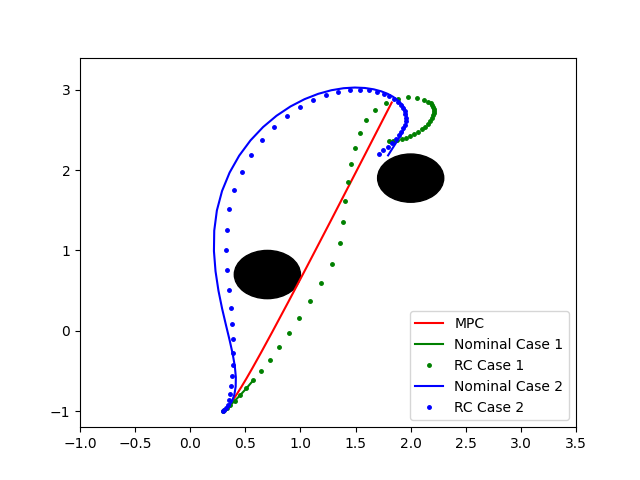
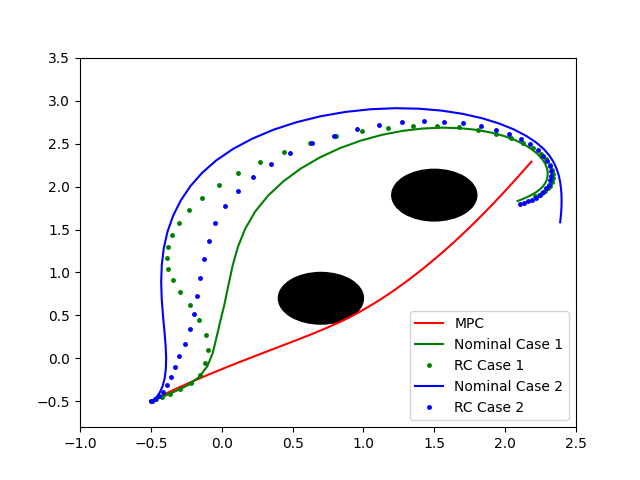
getting the new case to work

diff --git a/bicycle_2d/mpc_cbf_sqp.py b/bicycle_2d/mpc_cbf_sqp.py
@@ -17,26 +17,32 @@ tf = 3#40
 # N = int( tf/dt_inner )
 # N = 100#100
 # tf =  int( N * dt_inner ) #20
-outer_loop = 4#0000000 #4
+outer_loop = 2#0000000 #4
 num_gd_iterations = 1#1
 dt_outer = 0.01
 
-H = 20#20#100
-lr_alpha = 0.07#0.05
-# lr_alpha = 0.1#0.05
+H = 30#20#100
+lr_alpha = 0.05#0.05
+# lr_alpha = 0.1#0.051111111111111111111111111111111111111111111111111111111111111111111
 
-plot_x_lim = (-1.0,3.5)  
-# plot_y_lim = (-0.8,3) 
-plot_y_lim = (-1.2,3.4)#(-2.6,3)
+# plot_x_lim = (-1.0,3.5)  
+# plot_y_lim = (-1.2,3.4)#(-2.6,3)
+plot_x_lim = (-1.0,2.5)  
+plot_y_lim = (-0.8,3.5) 
 
 # starting point
 # X_init = np.array([-0.5,-0.5,np.pi/2])
-d_obs = 0.3
-X_init = np.array([0.3,-1.0, np.pi/4, 0.1 ]) #-0.3,-0.5
-goalX = np.array([1.7,2.5]).reshape(-1,1) #2.5,2.0
+# d_obs = 0.3
+# X_init = np.array([0.3,-1.0, np.pi/4, 0.1 ]) #-0.3,-0.5
+# goalX = np.array([1.7,2.5]).reshape(-1,1) #2.5,2.0
 # obs1X = [0.7, 0.7]
+# obs1X = [0.7, 0.7]
+# obs2X = [2.0, 1.9]
+X_init = np.array([-0.5,-0.5, np.pi/6, 0.1])
+d_obs = 0.3
+goalX = np.array([2.0,2.0])
 obs1X = [0.7, 0.7]
-obs2X = [2.0, 1.9]
+obs2X = [1.5, 1.9]
 
 # X_init = np.array([-0.5,-2.5, 0, 0.1, 0.1, 0, 0.1 ])
 # goalX = np.array([0.9, 0.9]).reshape(-1,1)
@@ -95,7 +101,7 @@ def compute_reward(robot, obs1, obs2, params, dt_outer):
         # make  control matrices
         # control_ref = torch.tensor([0,0], dtype=torch.float).reshape(-1,1)
         control_ref = bicycle2D_nominal_input_jit( states[i], robot.goal_torch )
-        A, b = traced_bicycle2D_qp_constraints_jit( states[i], robot.goal_torch, obs1.X_torch, obs2.X_torch, params[0], params[1], params[2] )
+        A, b = traced_bicycle2D_qp_constraints_jit( states[i], robot.goal_torch, obs1.X_torch, obs2.X_torch, params[0], params[1], params[2], params[3], params[4] )
         # print(f"A:{A}, b:{b}, u_ref:{control_ref}")
         control, deltas = cbf_controller_layer( control_ref, A, b ) #if ( (torch.abs(control[0,0]) > 11) or (torch.abs(control[1,0])>11) ): # print("wrong input: issue with solver")
         
@@ -104,7 +110,7 @@ def compute_reward(robot, obs1, obs2, params, dt_outer):
             # plt.ioff()
             # plt.show()
             # plt.ion()
-            A, b = bicycle2D_qp_constraints_jit( states[i], robot.goal_torch, obs1.X_torch, obs2.X_torch, params[0], params[1], params[2])
+            A, b = bicycle2D_qp_constraints_jit( states[i], robot.goal_torch, obs1.X_torch, obs2.X_torch, params[0], params[1], params[2], params[3], params[4])
             
             return reward, improve_constraints, maintain_constraints, True
         
@@ -203,7 +209,7 @@ def constrained_update( objective, maintain_constraints, improve_constraints, pa
 
 
 
-def simulate_scenario( movie_name = 'test.mp4', adapt = True, enforce_input_constraints = False, params = [1.0, 0.8, 0.8], plot_x_lim = (-5,5), plot_y_lim = (-5,5), offline = False, offline_iterations = 20, alpha1 = 0.8, alpha2 = 0.8 ):
+def simulate_scenario( movie_name = 'test.mp4', adapt = True, enforce_input_constraints = False, params = [1.0, 0.8, 0.8, 0.8, 0.8], plot_x_lim = (-5,5), plot_y_lim = (-5,5), offline = False, offline_iterations = 20, alpha1 = 0.8, alpha2 = 0.8 ):
 
     t = 0
     
@@ -248,7 +254,7 @@ def simulate_scenario( movie_name = 'test.mp4', adapt = True, enforce_input_cons
                 # get controller
                 # control_ref = torch.tensor([0,0], dtype=torch.float).reshape(-1,1)
                 control_ref = traced_bicycle2D_nominal_input_jit( robot.X_torch, robot.goal_torch )
-                A, b = traced_bicycle2D_qp_constraints_jit( robot.X_torch, robot.goal_torch, obs1.X_torch, obs2.X_torch, torch.tensor(params[0], dtype=torch.float), torch.tensor(params[1], dtype=torch.float), torch.tensor(params[2], dtype=torch.float) )
+                A, b = traced_bicycle2D_qp_constraints_jit( robot.X_torch, robot.goal_torch, obs1.X_torch, obs2.X_torch, torch.tensor(params[0], dtype=torch.float), torch.tensor(params[1], dtype=torch.float), torch.tensor(params[2], dtype=torch.float), torch.tensor(params[3], dtype=torch.float), torch.tensor(params[4], dtype=torch.float) )
                 # print(f"A:{A}, b:{b}, ref:{control_ref}")
                 control, deltas = cbf_controller_layer( control_ref, A, b, solver_args=solver_args )
                 if np.any( deltas[1:].detach().numpy() > 0.3 ):
@@ -269,7 +275,7 @@ def simulate_scenario( movie_name = 'test.mp4', adapt = True, enforce_input_cons
                     robot.X_nominal_torch = torch.tensor(robot.X_nominal, dtype=torch.float)
                     # control_ref = torch.tensor([0,0], dtype=torch.float).reshape(-1,1)
                     control_ref = bicycle2D_nominal_input_jit( robot.X_nominal_torch, robot.goal_torch )
-                    A, b = traced_bicycle2D_qp_constraints_jit( robot.X_nominal_torch, robot.goal_torch, obs1.X_torch, obs2.X_torch, torch.tensor(params_copy[0], dtype=torch.float), torch.tensor(params_copy[1], dtype=torch.float), torch.tensor(params_copy[2], dtype=torch.float) )
+                    A, b = traced_bicycle2D_qp_constraints_jit( robot.X_nominal_torch, robot.goal_torch, obs1.X_torch, obs2.X_torch, torch.tensor(params_copy[0], dtype=torch.float), torch.tensor(params_copy[1], dtype=torch.float), torch.tensor(params_copy[2], dtype=torch.float), torch.tensor(params_copy[3], dtype=torch.float), torch.tensor(params_copy[4], dtype=torch.float) )
                     control, deltas = cbf_controller_layer( control_ref, A, b )  
                     if np.any( deltas[1:].detach().numpy() > 0.3 ):
                         nominal_failed = True
@@ -313,6 +319,8 @@ def simulate_scenario( movie_name = 'test.mp4', adapt = True, enforce_input_cons
                             params[0] = np.clip( params[0] + lr_rate * grads[0], 0.0, None ).item()
                             params[1] = np.clip( params[1] + lr_rate * grads[1], 0.0, None ).item()
                             params[2] = np.clip( params[2] + lr_rate * grads[2], 0.0, None ).item()
+                            params[3] = np.clip( params[3] + lr_rate * grads[3], 0.0, None ).item()
+                            params[4] = np.clip( params[4] + lr_rate * grads[4], 0.0, None ).item()
                             # print(f"grads: {grads.T}, params: {params}, lr_rate:{lr_rate}, add1:{lr_rate * grads[0]}, add2:{lr_rate * grads[1]}, add3:{lr_rate * grads[0]}")
                             loop_number = loop_number + 1
                             print(f"params: {params}")
@@ -332,6 +340,8 @@ def simulate_scenario( movie_name = 'test.mp4', adapt = True, enforce_input_cons
                             params[0] = np.clip( params[0] + lr_alpha * grads[0], 0.0, None ).item()
                             params[1] = np.clip( params[1] + lr_alpha * grads[1], 0.0, None ).item()
                             params[2] = np.clip( params[2] + lr_alpha * grads[2], 0.0, None ).item()
+                            params[3] = np.clip( params[3] + lr_rate * grads[3], 0.0, None ).item()
+                            params[4] = np.clip( params[4] + lr_rate * grads[4], 0.0, None ).item()
                             print(f"params: {params}")
                         print(f"Success!")
                             
@@ -346,8 +356,8 @@ def simulate_scenario( movie_name = 'test.mp4', adapt = True, enforce_input_cons
 
 # fig1, ax1, robot1, rewards1, params1 = simulate_scenario( movie_name = 'bicycle_2d/figures/cs4_case1_rc.mp4', adapt=True, enforce_input_constraints=True, params = [1.0, 1.0, 3.0], plot_x_lim = plot_x_lim, plot_y_lim = plot_y_lim, offline = False, offline_iterations=20 )            
 # fig1, ax1, robot1, rewards1, params1 = simulate_scenario( movie_name = 'RateTunableCBFs/bicycle_2d/figures/cs4_case1_rc.mp4', adapt=True, enforce_input_constraints=True, params = [1.0, 2.0, 3.0, 10.0], plot_x_lim = plot_x_lim, plot_y_lim = plot_y_lim, offline = False, offline_iterations=20 )            
-fig1, ax1, robot1, rewards1, params1 = simulate_scenario( movie_name = 'bicycle_2d/figures/cs4_case1_rc.mp4', adapt=True, enforce_input_constraints=True, params = [1.0, 3.0, 10.0], plot_x_lim = plot_x_lim, plot_y_lim = plot_y_lim, offline = False, offline_iterations=20 )            
-fig2, ax2, robot2, rewards2, params2 = simulate_scenario( movie_name = 'bicycle_2d/figures/cs4_case2_rc.mp4', adapt=True, enforce_input_constraints=True, params = [1.0, 1.0, 3.0], plot_x_lim = plot_x_lim, plot_y_lim = plot_y_lim, offline = False, offline_iterations=20 )            
+fig1, ax1, robot1, rewards1, params1 = simulate_scenario( movie_name = 'bicycle_2d/figures/cs4_case1_rc.mp4', adapt=True, enforce_input_constraints=True, params = [1.0, 3.0, 10.0, 3.0, 10.0], plot_x_lim = plot_x_lim, plot_y_lim = plot_y_lim, offline = False, offline_iterations=20 )            
+fig2, ax2, robot2, rewards2, params2 = simulate_scenario( movie_name = 'bicycle_2d/figures/cs4_case2_rc.mp4', adapt=True, enforce_input_constraints=True, params = [1.0, 1.0, 3.0, 1.0, 3.0], plot_x_lim = plot_x_lim, plot_y_lim = plot_y_lim, offline = False, offline_iterations=20 )            
 # fig3, ax3, robot3, rewards3, params3 = simulate_scenario( movie_name = 'bicycle_2d/figures/cs4_case1_offline.mp4', adapt=True, enforce_input_constraints=True, params = [1.0, 3.0, 10.0], plot_x_lim = plot_x_lim, plot_y_lim = plot_y_lim, offline = True, offline_iterations=20 )            
 # fig4, ax4, robot4, rewards4, params4 = simulate_scenario( movie_name = 'bicycle_2d/figures/cs4_case2_offline.mp4', adapt=True, enforce_input_constraints=True, params = [1.0, 1.0, 3.0], plot_x_lim = plot_x_lim, plot_y_lim = plot_y_lim, offline = True, offline_iterations=20 )
 

diff --git a/robot_models/bicycle2DJIT.py b/robot_models/bicycle2DJIT.py
@@ -107,19 +107,19 @@ def bicycle_compute_reward_jit(X,targetX, control):
     return 100 * torch.square( torch.norm( X[0:2,0] - targetX[0:2,0]  ) ) + torch.square( torch.norm(control) )
 traced_bicycle_compute_reward_jit = torch.jit.trace( bicycle_compute_reward_jit, ( torch.ones(7,1, dtype=torch.float), torch.ones(2,1, dtype=torch.float), torch.ones(2,1, dtype=torch.float) ) )
     
-def bicycle2D_qp_constraints_jit(state, goal, obs1, obs2, param0, param1, param2): #k, alpha1, alpha2, alpha3
+def bicycle2D_qp_constraints_jit(state, goal, obs1, obs2, param0, param1_1, param1_2, param2_1, param2_2): #k, alpha1, alpha2, alpha3
     # print("hell")
     V, dV_dx = bicycle_lyapunov_jit( state, goal )
-    h1_1, h1, dh1_dx = bicycle_barrier_jit( state, obs1, param1  )
-    h2_1, h2, dh2_dx = bicycle_barrier_jit( state, obs2, param1  )
+    h1_1, h1, dh1_dx = bicycle_barrier_jit( state, obs1, param1_1  )
+    h2_1, h2, dh2_dx = bicycle_barrier_jit( state, obs2, param2_1  )
     f = bicycle_f_torch_jit(state)
     g = bicycle_g_torch_jit(state)
     A0 = -dV_dx @ g; b0 = -dV_dx @ f - param0 * V
     
-    A1 = dh1_dx @ g; b1 = dh1_dx @ f + param2 * h1
+    A1 = dh1_dx @ g; b1 = dh1_dx @ f + param1_2 * h1
     A1_1 = A1 * 0; b1_1 = h1_1
     
-    A2 = dh2_dx @ g; b2 = dh2_dx @ f + param2 * h2      
+    A2 = dh2_dx @ g; b2 = dh2_dx @ f + param2_2 * h2      
     A2_1 = A2 * 0; b2_1 = h2_1
     
     A = torch.cat( (A0, 1*A1_1, 1*A1, 1*A2_1, 1*A2), dim=0 )
@@ -127,4 +127,4 @@ def bicycle2D_qp_constraints_jit(state, goal, obs1, obs2, param0, param1, param2
     # A = torch.cat( (A0, A1), dim=0 )
     # b = torch.cat( (b0, b1), dim=0 )
     return A, b
-traced_bicycle2D_qp_constraints_jit = torch.jit.trace( bicycle2D_qp_constraints_jit, ( torch.ones(4,1, dtype=torch.float), torch.zeros(2,1, dtype=torch.float), torch.ones(2,1, dtype=torch.float), torch.ones(2,1, dtype=torch.float), torch.tensor(0.5, dtype=torch.float), torch.tensor(0.5, dtype=torch.float), torch.tensor(0.5, dtype=torch.float) ) )
+traced_bicycle2D_qp_constraints_jit = torch.jit.trace( bicycle2D_qp_constraints_jit, ( torch.ones(4,1, dtype=torch.float), torch.zeros(2,1, dtype=torch.float), torch.ones(2,1, dtype=torch.float), torch.ones(2,1, dtype=torch.float), torch.tensor(0.5, dtype=torch.float), torch.tensor(0.5, dtype=torch.float), torch.tensor(0.5, dtype=torch.float), torch.tensor(0.5, dtype=torch.float), torch.tensor(0.5, dtype=torch.float) ) )

diff --git a/bicycle_2d/mpc_native.py b/bicycle_2d/mpc_native.py
@@ -13,11 +13,11 @@ m = 2
 # starting point
 x0 = np.zeros((N-1)*(n+m)+n)
 # X_init = np.array([0.5,-0.5, 0, 0.1])
-X_init = np.array([0.3,-1.0, np.pi/4, 0.1])
+X_init = np.array([-0.5,-0.5, np.pi/4, 0.1])#np.array([0.3,-1.0, np.pi/4, 0.1])
 obsX = np.array([0.7,0.7])
-obsX2 = np.array([2.0,1.9]) #1.5,1.9
+obsX2 = np.array([1.5,1.9]) #2.0,1.9
 d_obs = 0.3
-goalX = np.array([1.7,2.5])#2,3
+goalX = np.array([2.0, 2.0])#np.array([1.7,2.5])#2,3
 u1_max_square = 5*5
 u2_max_square = 5*5
 
@@ -199,8 +199,10 @@ for i in range(N-1):
     # ui = x[(n+m)*i+n:(n+m)*i+n+m]
     
 fig, ax = plt.subplots(1,1)
-plot_x_lim = (-0.5,2.5)  
-plot_y_lim = (-0.5,2.5) 
+# plot_x_lim = (-0.5,2.5)  
+# plot_y_lim = (-0.5,2.5) 
+plot_x_lim = (-1.0,2.5)  
+plot_y_lim = (-0.8,3.5) 
 ax.set_xlim( plot_x_lim )
 ax.set_ylim( plot_y_lim )
 circ = plt.Circle((obsX[0],obsX[1]),d_obs, linewidth = 1, edgecolor='k',facecolor='k')
